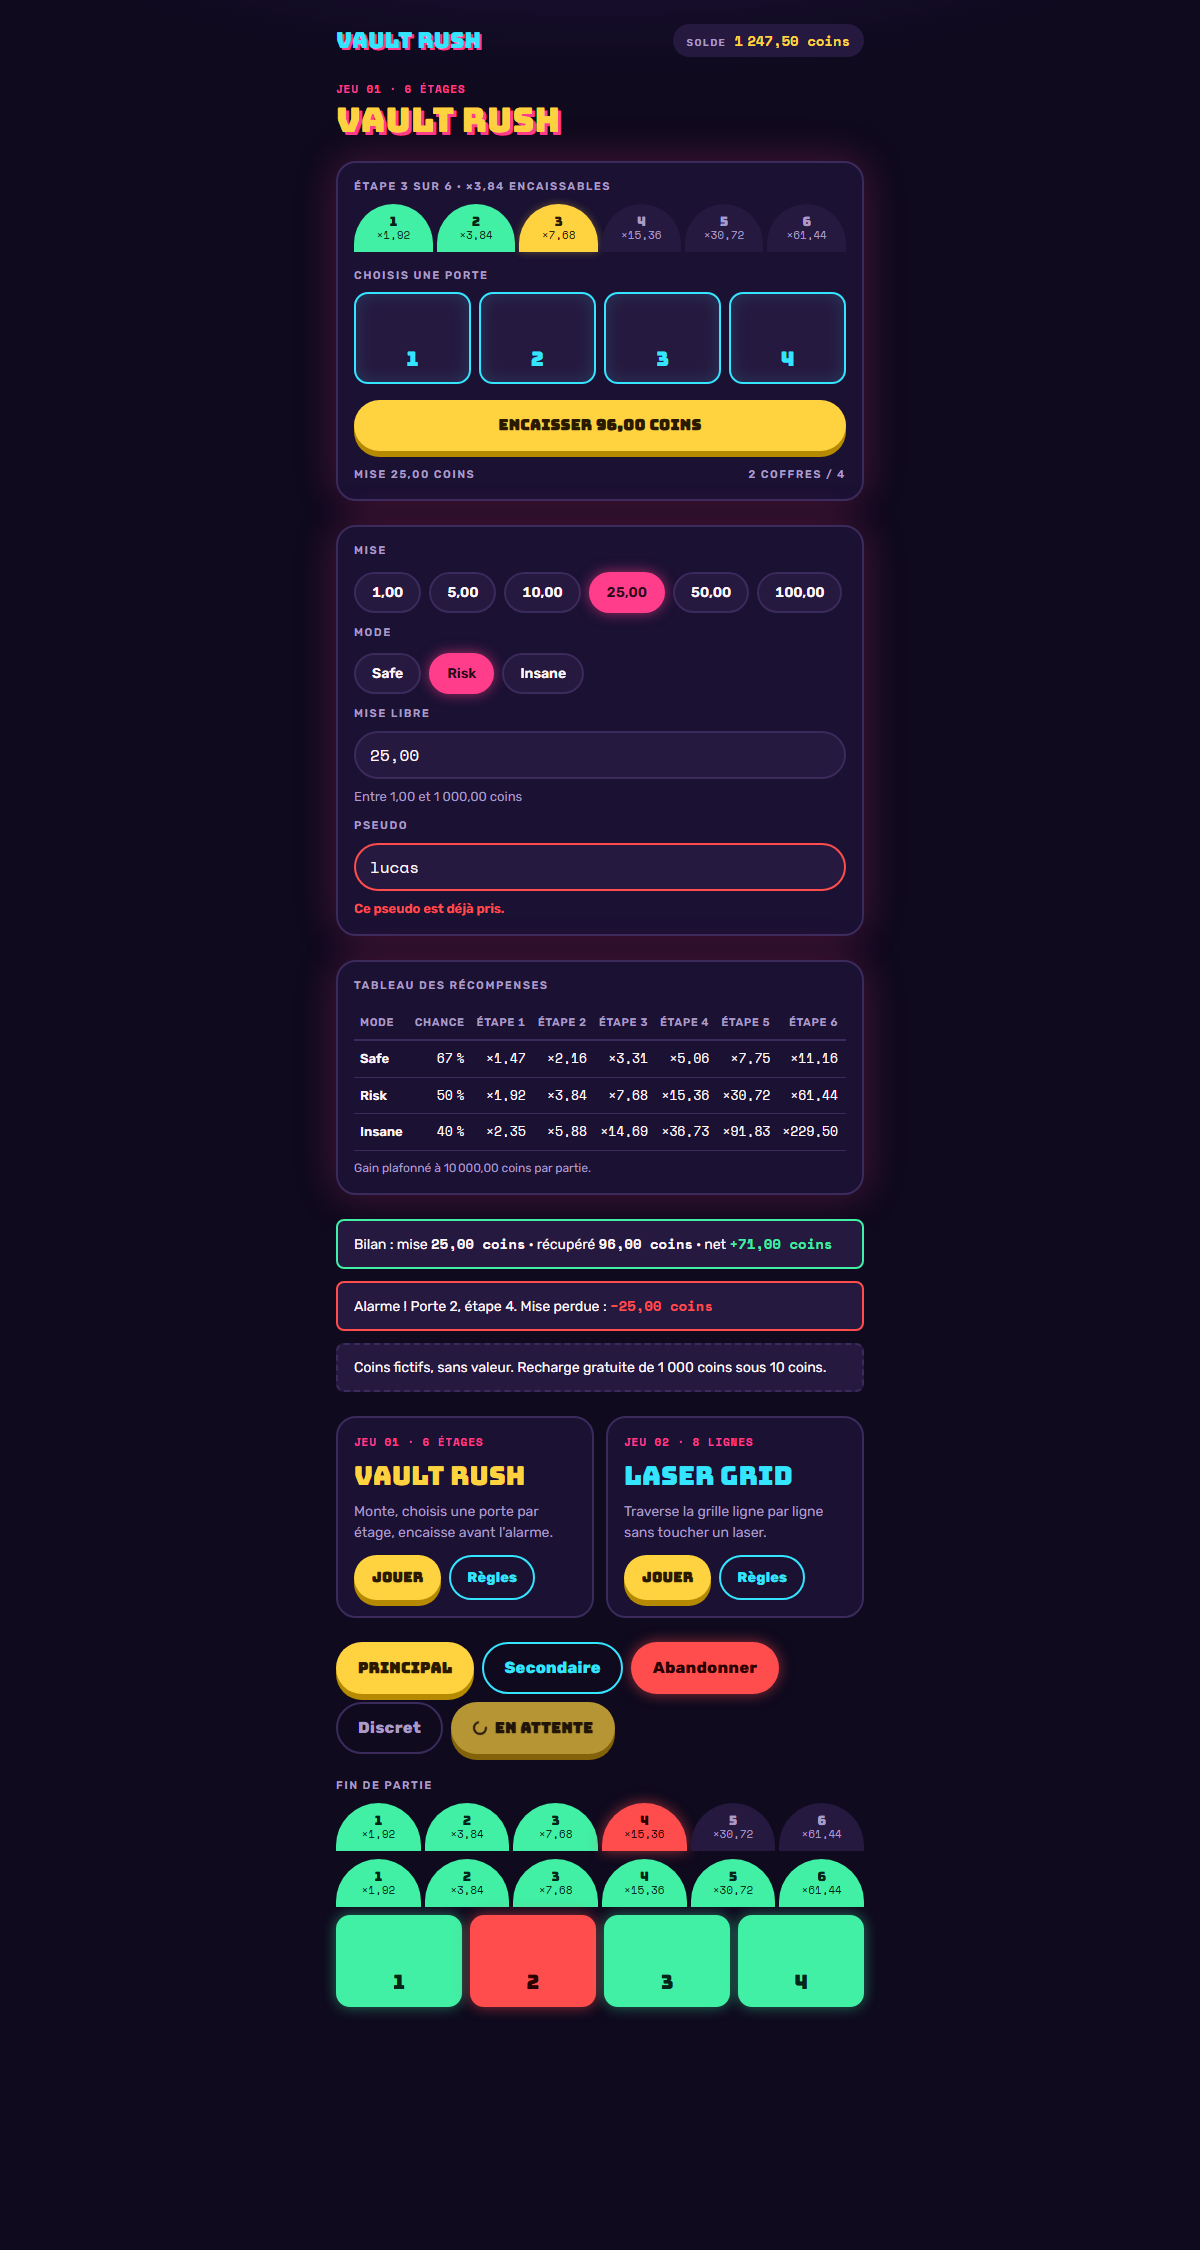
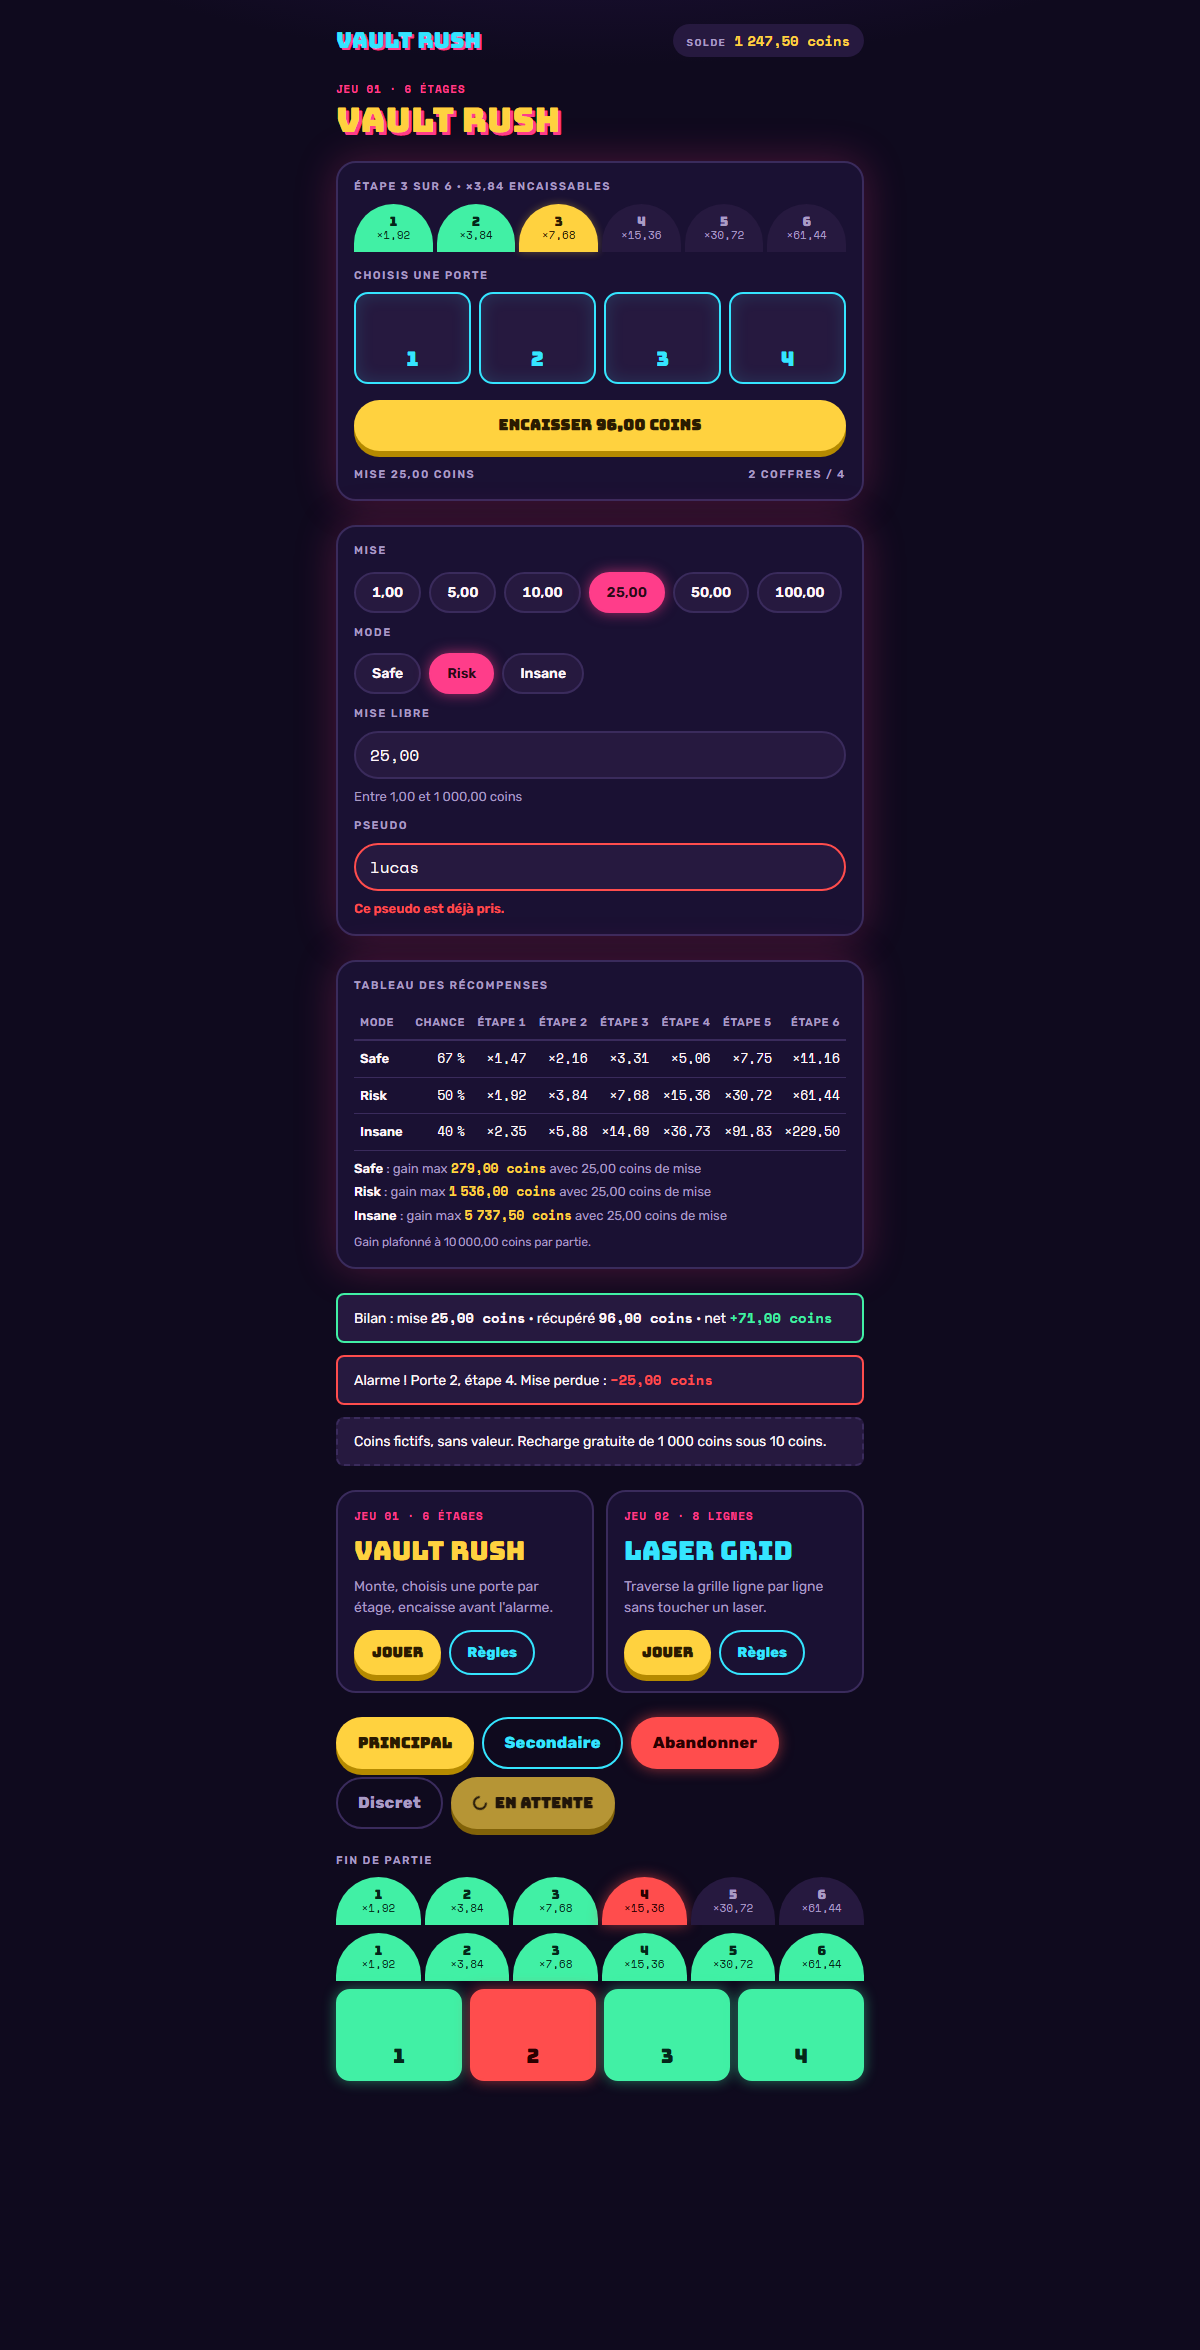
fix(client): gardes par racines, gain max hors du tableau, index.html scanné
Revue de la tâche 3, trois points « Important ».

1. La garde de vocabulaire ne voyait que les formes exactes : « retraits »,
   « dépôts », « paiement », « payé », « payez », « achats » et « euro »
   passaient toutes. Les motifs portent désormais sur les racines
   (`retrait\p{L}*`, `d[ée]p[oô]t\p{L}*`, `pay(er|é|ez|ant|ement)`,
   `achat|achet`, `euros?`), avec 19 formes en fixture prouvant qu'elles
   tombent et 7 tournures innocentes prouvant l'absence de faux positifs
   (« rachat », « européen », « déposer un pseudo »). Décision assumée et
   documentée : seule la racine `dépôt` est interdite, pas `dépos-`.

2. La colonne « Gain max » était coupée au bord de la carte, sans affordance
   de défilement, alors que la spec veut le gain max lu AVANT de miser. Elle
   sort du tableau : une ligne par mode sous le tableau, « Risk : gain max
   1 536,00 coins avec 25,00 coins de mise », et « (plafond atteint) » quand
   le plafond mord. Capture refaite et relue.

3. `index.html` est maintenant scanné par la garde des jetons, avec une seule
   exception nommée (la ligne `<meta name="theme-color">`, qu'aucune variable
   CSS ne peut alimenter) dont la valeur est verrouillée sur le jeton `--bg` :
   elle ne peut plus dériver. Vérifié en cassant les deux cas.

Mineurs : `formatCoins(-0)` rend « 0,00 coins » ; les paires `--alarm`/`--panel2`
(4,97:1, la plus serrée du produit) et `--dim`/`--panel2` entrent dans la garde
de contraste.

81 tests verts, `typecheck` et `build` verts.

Changed region(s): [[0.2775, 0.0, 0.74, 0.9022], [0.5858, 0.0, 0.7092, 0.0311]]

diff --git a/client/tests/vocabulary.test.ts b/client/tests/vocabulary.test.ts
@@ -3,10 +3,17 @@ import { describe, expect, it } from "vitest";
 import { readFileSync, readdirSync, statSync } from "node:fs";
 import { join, relative, resolve } from "node:path";
 
-
 /**
- * Garde : Vault Rush ne parle jamais d'argent réel. Aucun de ces mots ne doit
- * apparaître dans le client livré.
+ * Garde : Vault Rush ne parle jamais d'argent réel.
+ *
+ * Les motifs portent sur les RACINES, pas sur les formes exactes : « retraits »,
+ * « dépôts », « paiement », « payé », « payez », « achats » et « euro » doivent
+ * tomber comme « retrait » ou « acheter ». La borne gauche `(?<![\p{L}])` évite
+ * les faux positifs à l'intérieur d'un mot (« rachat », « européen », « neurone »).
+ *
+ * Décision assumée : seule la racine `dépôt` est interdite, pas `dépos-`.
+ * « déposer un pseudo » reste donc du français permis ; si un jour un écran écrit
+ * « déposer des coins », c'est la relecture humaine qui l'attrape, pas ce test.
  */
 
 const CLIENT = resolve(process.cwd());
@@ -23,31 +30,81 @@ function walk(dir: string): string[] {
   return out;
 }
 
-const FORBIDDEN = [
-  "argent\\s+réel",
-  "retrait",
-  "dépôt",
-  "payer",
-  "acheter",
-  "euros",
-  "€",
+const FORBIDDEN: { label: string; pattern: string }[] = [
+  { label: "argent réel", pattern: "argent\\s+r[ée]el\\p{L}*" },
+  { label: "retrait", pattern: "retrait\\p{L}*" },
+  { label: "dépôt", pattern: "d[ée]p[oô]t\\p{L}*" },
+  { label: "payer / paiement", pattern: "pai(?:e|ement)\\p{L}*|pay(?:er|é|ée|ez|ant|ement)\\p{L}*" },
+  { label: "acheter / achat", pattern: "achat\\p{L}*|achet\\p{L}*" },
+  { label: "euro", pattern: "euros?(?![\\p{L}])" },
+  { label: "€", pattern: "€" },
 ];
 
-describe("vocabulaire interdit", () => {
-  const files = [...walk(SRC), INDEX];
+/** Les mots interdits trouvés dans un texte, un par occurrence. */
+function offendersIn(text: string, source: string): string[] {
+  const found: string[] = [];
+  for (const { label, pattern } of FORBIDDEN) {
+    const re = new RegExp(`(?<![\\p{L}])(?:${pattern})`, "giu");
+    text.split(/\r?\n/).forEach((line, i) => {
+      if (re.test(line)) found.push(`${source}:${i + 1} [${label}]: ${line.trim()}`);
+      re.lastIndex = 0;
+    });
+  }
+  return found;
+}
 
+describe("vocabulaire interdit", () => {
   it("aucun mot d'argent réel dans le client", () => {
     const offenders: string[] = [];
-    for (const word of FORBIDDEN) {
-      const re = new RegExp(`(?<![\\p{L}])${word}(?![\\p{L}])`, "giu");
-      for (const file of files) {
-        const text = readFileSync(file, "utf8");
-        text.split(/\r?\n/).forEach((line, i) => {
-          if (re.test(line)) offenders.push(`${relative(CLIENT, file)}:${i + 1}: ${line.trim()}`);
-          re.lastIndex = 0;
-        });
-      }
+    for (const file of [...walk(SRC), INDEX]) {
+      offenders.push(...offendersIn(readFileSync(file, "utf8"), relative(CLIENT, file)));
     }
     expect(offenders).toEqual([]);
   });
+
+  // La garde doit attraper les formes fléchies, pas seulement le mot du brief.
+  const caught = [
+    "argent réel",
+    "de l'ARGENT RÉEL ici",
+    "argent reel",
+    "retrait",
+    "retraits impossibles",
+    "aucun dépôt",
+    "des dépôts",
+    "depot minimum",
+    "payer",
+    "payé",
+    "vous payez",
+    "un paiement",
+    "en payant",
+    "acheter",
+    "un achat",
+    "des achats",
+    "1 euro",
+    "10 euros",
+    "12,50 €",
+  ];
+
+  for (const sample of caught) {
+    it(`attrape « ${sample} »`, () => {
+      expect(offendersIn(sample, "fixture")).not.toEqual([]);
+    });
+  }
+
+  // Du français innocent qui ne doit pas faire tomber la garde.
+  const allowed = [
+    "déposer un pseudo",
+    "le rachat de la mise",
+    "un joueur européen",
+    "neurone",
+    "payload JSON",
+    "encaisser 25,00 coins",
+    "coins fictifs, sans valeur",
+  ];
+
+  for (const sample of allowed) {
+    it(`laisse passer « ${sample} »`, () => {
+      expect(offendersIn(sample, "fixture")).toEqual([]);
+    });
+  }
 });

diff --git a/client/src/components/RewardTable.tsx b/client/src/components/RewardTable.tsx
@@ -11,7 +11,7 @@ export type RewardMode = {
 
 export type RewardTableProps = {
   modes: RewardMode[];
-  /** Mise courante en centimes : ajoute la colonne « Gain max ». */
+  /** Mise courante en centimes : ajoute le gain max par mode sous le tableau. */
   betCents?: number;
   /** Plafond de gain par partie, en centimes. */
   maxPayoutCents: number;
@@ -45,32 +45,52 @@ export function RewardTable({ modes, betCents, maxPayoutCents }: RewardTableProp
               {columns.map((step) => (
                 <th key={step} scope="col">{`Étape ${step}`}</th>
               ))}
-              {betCents === undefined ? null : <th scope="col">Gain max</th>}
             </tr>
           </thead>
           <tbody>
-            {modes.map((mode) => {
-              const last = mode.multipliers[mode.multipliers.length - 1] ?? 1;
-              const max = Math.min(Math.round((betCents ?? 0) * last), maxPayoutCents);
-              return (
-                <tr key={mode.id}>
-                  <th scope="row">{mode.label}</th>
-                  <td>{formatPercent(mode.chancePerStep)}</td>
-                  {columns.map((step) => {
-                    const multiplier = mode.multipliers[step - 1];
-                    return (
-                      <td key={step}>{multiplier === undefined ? "—" : formatMultiplier(multiplier)}</td>
-                    );
-                  })}
-                  {betCents === undefined ? null : (
-                    <td className="rewardtable__max">{formatCoins(max)}</td>
-                  )}
-                </tr>
-              );
-            })}
+            {modes.map((mode) => (
+              <tr key={mode.id}>
+                <th scope="row">{mode.label}</th>
+                <td>{formatPercent(mode.chancePerStep)}</td>
+                {columns.map((step) => {
+                  const multiplier = mode.multipliers[step - 1];
+                  return (
+                    <td key={step}>
+                      {multiplier === undefined ? "—" : formatMultiplier(multiplier)}
+                    </td>
+                  );
+                })}
+              </tr>
+            ))}
           </tbody>
         </table>
       </div>
+
+      {/*
+        Le gain max vit HORS du tableau : dans le tableau il était la colonne la
+        plus à droite, donc invisible sans défiler, alors que la spec demande
+        qu'il soit lu avant de miser.
+      */}
+      {betCents === undefined ? null : (
+        <ul className="rewardtable__gains">
+          {modes.map((mode) => {
+            const last = mode.multipliers[mode.multipliers.length - 1] ?? 1;
+            const raw = Math.round(betCents * last);
+            const capped = raw > maxPayoutCents;
+            return (
+              <li key={mode.id} className="rewardtable__gain" data-capped={capped || undefined}>
+                <span className="rewardtable__gain-mode">{mode.label}</span>
+                {" : gain max "}
+                <span className="rewardtable__gain-value">
+                  {formatCoins(Math.min(raw, maxPayoutCents))}
+                </span>
+                {` avec ${formatCoins(betCents)} de mise${capped ? " (plafond atteint)" : ""}`}
+              </li>
+            );
+          })}
+        </ul>
+      )}
+
       <p className="rewardtable__cap">{`Gain plafonné à ${formatCoins(maxPayoutCents)} par partie.`}</p>
     </div>
   );

diff --git a/client/tests/tokens.test.ts b/client/tests/tokens.test.ts
@@ -3,14 +3,22 @@ import { describe, expect, it } from "vitest";
 import { readFileSync, readdirSync, statSync } from "node:fs";
 import { join, relative, resolve } from "node:path";
 
-
 /**
  * Garde : aucune couleur en dur hors du fichier de jetons.
  * Toute couleur du client doit passer par une variable CSS de `styles/tokens.css`.
+ *
+ * `index.html` est scanné lui aussi, avec UNE exception nommée : la balise
+ * `<meta name="theme-color">`, qu'aucune variable CSS ne peut alimenter. Sa
+ * valeur est verrouillée sur le jeton `--bg` par le test suivant, donc elle ne
+ * peut pas dériver en silence.
  */
 
-const SRC = resolve(process.cwd(), "src");
+const CLIENT = resolve(process.cwd());
+const SRC = join(CLIENT, "src");
+const INDEX = join(CLIENT, "index.html");
 const TOKENS = join(SRC, "styles", "tokens.css");
+
+const THEME_COLOR_EXCEPTION = /<meta\s+name="theme-color"/i;
 
 function walk(dir: string): string[] {
   const out: string[] = [];
@@ -25,11 +33,19 @@ function walk(dir: string): string[] {
 const HEX = /#[0-9a-f]{3,8}\b/i;
 const FUNC = /\b(?:rgba?|hsla?)\(/i;
 
+function token(name: string): string {
+  const css = readFileSync(TOKENS, "utf8");
+  const match = css.match(new RegExp(`${name}\\s*:\\s*(#[0-9a-fA-F]{6})\\s*;`));
+  if (!match) throw new Error(`jeton ${name} introuvable dans tokens.css`);
+  return match[1];
+}
+
 describe("jetons de couleur", () => {
-  const files = walk(SRC).filter((f) => f !== TOKENS);
+  const files = [...walk(SRC), INDEX].filter((f) => f !== TOKENS);
 
   it("trouve des fichiers à scanner", () => {
     expect(files.length).toBeGreaterThan(5);
+    expect(files).toContain(INDEX);
   });
 
   it("le fichier de jetons existe", () => {
@@ -41,11 +57,19 @@ describe("jetons de couleur", () => {
     for (const file of files) {
       const text = readFileSync(file, "utf8");
       text.split(/\r?\n/).forEach((line, i) => {
+        if (file === INDEX && THEME_COLOR_EXCEPTION.test(line)) return; // exception nommée
         if (HEX.test(line) || FUNC.test(line)) {
-          offenders.push(`${relative(SRC, file)}:${i + 1}: ${line.trim()}`);
+          offenders.push(`${relative(CLIENT, file)}:${i + 1}: ${line.trim()}`);
         }
       });
     }
     expect(offenders).toEqual([]);
+  });
+
+  it("la seule couleur d'index.html est theme-color, et elle vaut le jeton --bg", () => {
+    const html = readFileSync(INDEX, "utf8");
+    const meta = html.match(/<meta\s+name="theme-color"\s+content="(#[0-9a-fA-F]{6})"\s*\/?>/i);
+    expect(meta, "balise theme-color introuvable ou mal formée").not.toBeNull();
+    expect(meta?.[1].toUpperCase()).toBe(token("--bg").toUpperCase());
   });
 });

diff --git a/client/tests/components.test.tsx b/client/tests/components.test.tsx
@@ -41,6 +41,11 @@ describe("formatCoins", () => {
   it("n'invente pas de signe sans l'option", () => {
     expect(flat(formatCoins(-2500))).toBe("−25,00 coins");
   });
+
+  it("le zéro négatif reste un zéro franc", () => {
+    expect(flat(formatCoins(-0))).toBe("0,00 coins");
+    expect(flat(formatCoins(-0, { signed: true }))).toBe("+0,00 coins");
+  });
 });
 
 describe("formatMultiplier / formatPercent", () => {
@@ -254,15 +259,24 @@ describe("RewardTable", () => {
     expect(flat(within(risk).getByText(/%$/).textContent ?? "")).toBe("50 %");
   });
 
-  it("avec une mise, ajoute le gain max plafonné", () => {
+  it("avec une mise, donne le gain max par mode SOUS le tableau (jamais en colonne)", () => {
     render(<RewardTable modes={MODES} betCents={10000} maxPayoutCents={1000000} />);
-    expect(screen.getByRole("columnheader", { name: "Gain max" })).toBeInTheDocument();
-    // 100,00 coins × 61,44 = 6 144,00 coins (sous le plafond)
-    const risk = screen.getByRole("row", { name: /Risk/ });
-    expect(flat(within(risk).getByText(/6\D?144,00 coins/).textContent ?? "")).toBe("6 144,00 coins");
-    // 100,00 coins × 229,50 = 22 950,00 coins → plafonné à 10 000,00 coins
-    const insane = screen.getByRole("row", { name: /Insane/ });
-    expect(flat(within(insane).getByText(/coins/).textContent ?? "")).toBe("10 000,00 coins");
+    // La colonne la plus à droite était invisible sans défiler : plus de colonne.
+    expect(screen.queryByRole("columnheader", { name: /gain max/i })).toBeNull();
+    const lines = screen.getAllByRole("listitem").map((li) => flat(li.textContent ?? ""));
+    expect(lines).toEqual([
+      // 100,00 × 11,16 = 1 116,00
+      "Safe : gain max 1 116,00 coins avec 100,00 coins de mise",
+      // 100,00 × 61,44 = 6 144,00
+      "Risk : gain max 6 144,00 coins avec 100,00 coins de mise",
+      // 100,00 × 229,50 = 22 950,00 → plafonné
+      "Insane : gain max 10 000,00 coins avec 100,00 coins de mise (plafond atteint)",
+    ]);
+  });
+
+  it("sans mise, aucun gain max annoncé", () => {
+    render(<RewardTable modes={MODES} maxPayoutCents={1000000} />);
+    expect(screen.queryAllByRole("listitem")).toEqual([]);
   });
 
   it("rappelle le plafond en pied de tableau", () => {

diff --git a/client/tests/contrast.test.ts b/client/tests/contrast.test.ts
@@ -56,6 +56,9 @@ describe("contraste WCAG des jetons", () => {
     ["cyan sur panneau (options, boutons secondaires)", "--cyan", "--panel"],
     ["cyan sur panneau secondaire", "--cyan", "--panel2"],
     ["alarme sur panneau", "--alarm", "--panel"],
+    // Paire la plus serrée du produit : Amount[data-tone=bad] dans un Toast.
+    ["alarme sur panneau secondaire", "--alarm", "--panel2"],
+    ["texte secondaire sur panneau secondaire (étape au repos)", "--dim", "--panel2"],
     ["vert sur panneau (bénéfice)", "--safe", "--panel"],
     ["jaune sur panneau secondaire (solde)", "--yel", "--panel2"],
     ["magenta sur panneau (étiquettes)", "--mag", "--panel"],

diff --git a/client/src/lib/format.ts b/client/src/lib/format.ts
@@ -11,7 +11,9 @@ const coins = new Intl.NumberFormat("fr-FR", {
 /** Un montant en centimes de coin → « 4 699,99 coins ». */
 export function formatCoins(cents: number, options?: { signed?: boolean }): string {
   const signed = options?.signed ?? false;
-  const value = signed ? Math.abs(cents) : cents;
+  // `-0 === 0` : ramène le zéro négatif à un zéro franc, sinon Intl écrit « -0,00 ».
+  const amount = cents === 0 ? 0 : cents;
+  const value = signed ? Math.abs(amount) : amount;
   const body = coins.format(value / 100).replace("-", MINUS);
   const sign = signed ? (cents < 0 ? MINUS : "+") : "";
   return `${sign}${body} coins`;

diff --git a/client/src/styles/components.css b/client/src/styles/components.css
@@ -387,8 +387,29 @@
   border-bottom: 1px solid var(--line);
 }
 
-.rewardtable__max {
+.rewardtable__gains {
+  display: flex;
+  flex-direction: column;
+  gap: var(--sp-1);
+  list-style: none;
+  font-size: 13px;
+  color: var(--dim);
+}
+
+.rewardtable__gain-mode {
+  font-weight: 600;
+  color: var(--text);
+}
+
+.rewardtable__gain-value {
+  font-family: var(--font-mono);
+  font-weight: 700;
+  font-variant-numeric: tabular-nums;
   color: var(--yel);
+}
+
+.rewardtable__gain[data-capped] .rewardtable__gain-value {
+  color: var(--mag);
 }
 
 .rewardtable__cap {
